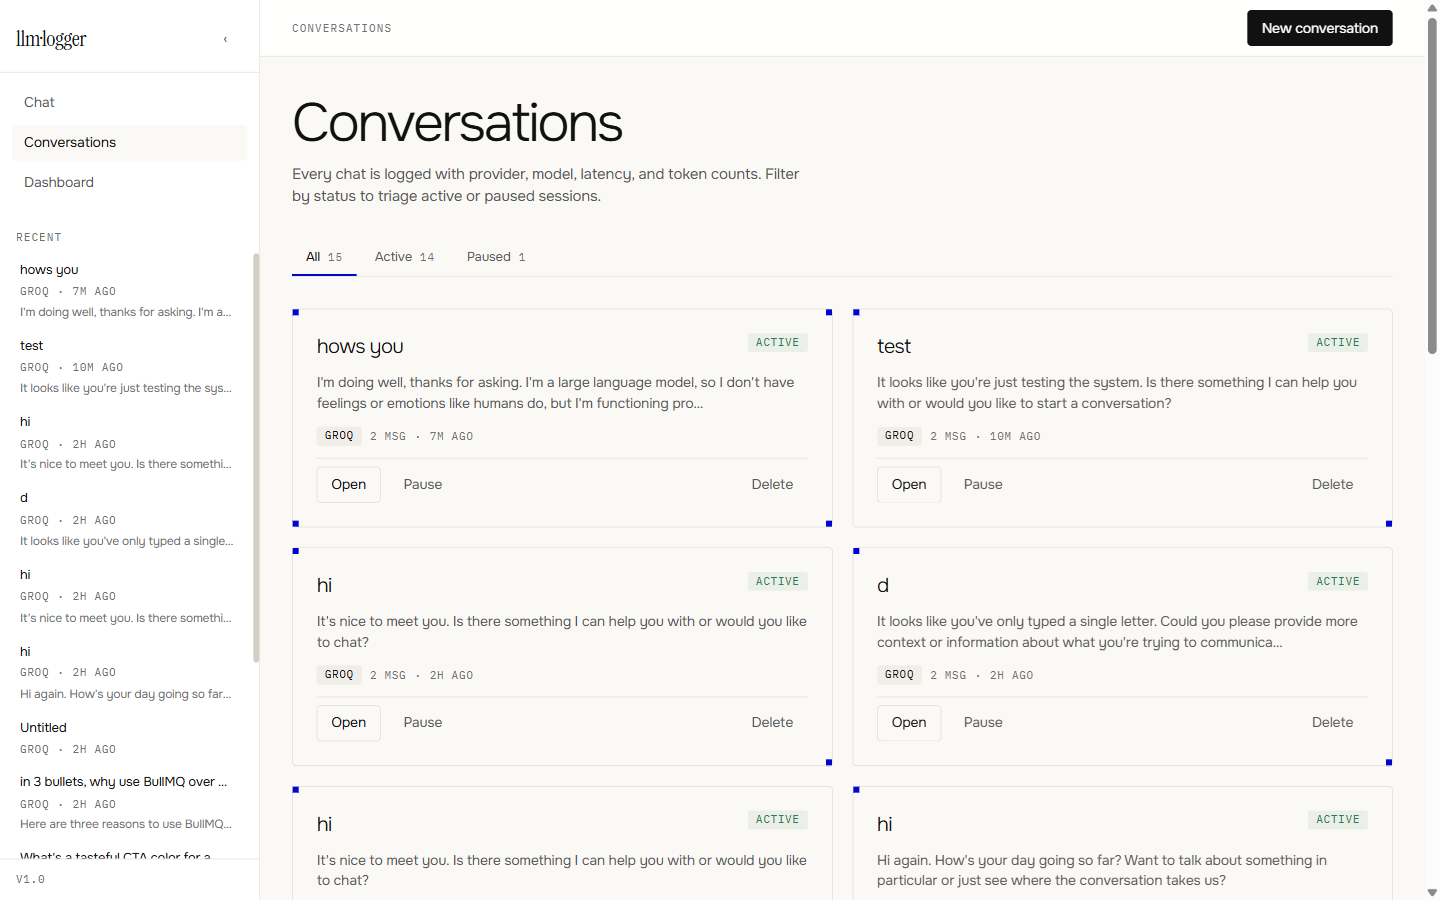
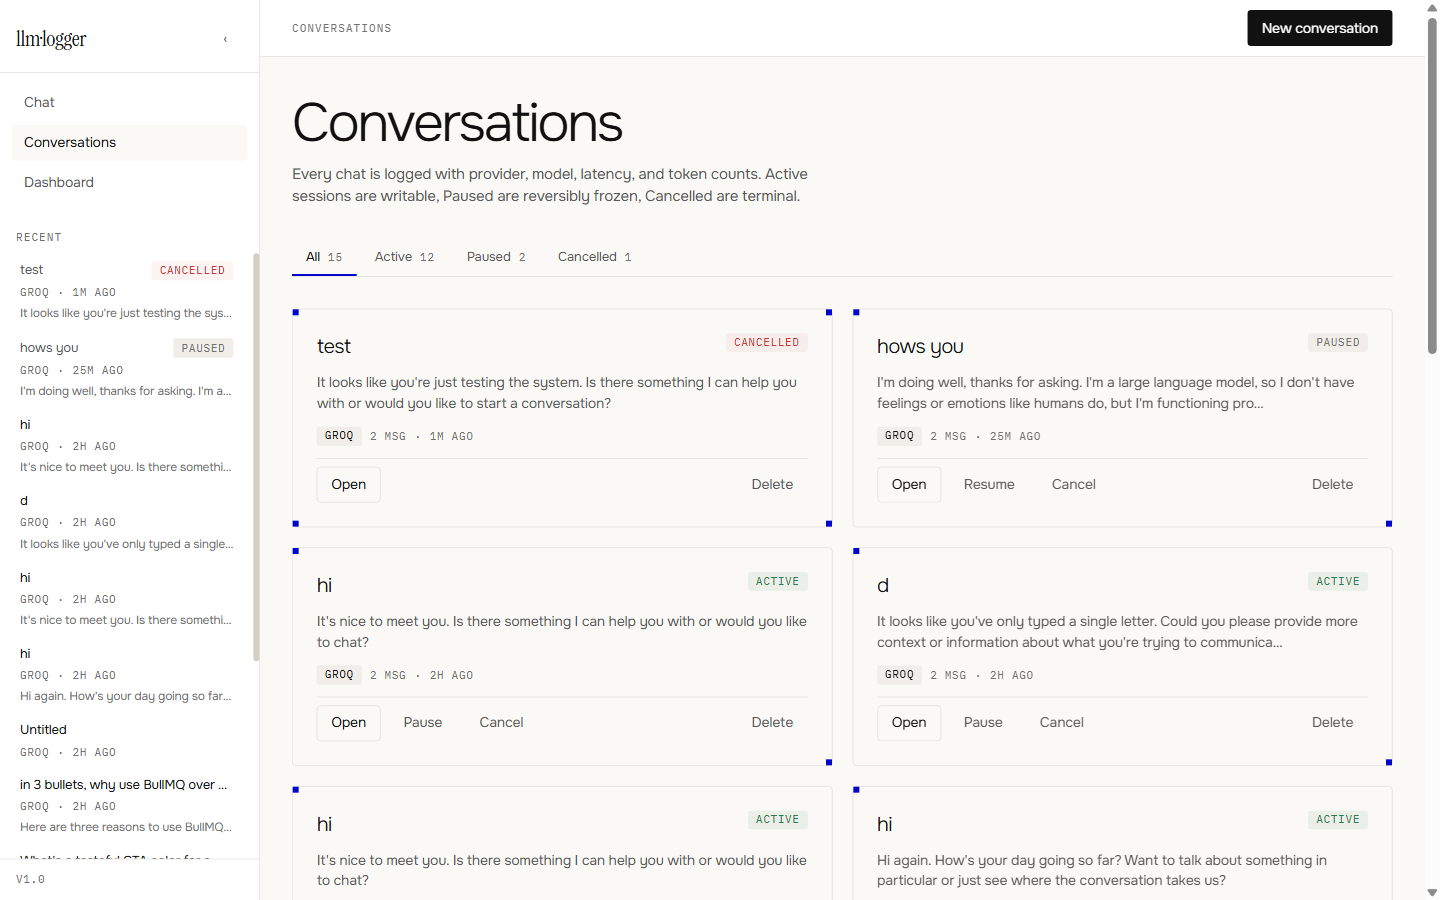
Add terminal CANCELLED status with full UX and server enforcement
Pause was already reversible. Cancelled is the new terminal state: once
set, the conversation is read-only at the database level and cannot be
revived.

UI
- ConversationCard: Cancel button on Active/Paused cards behind a
  window.confirm prompt. Once Cancelled, only Open and Delete remain.
- /conversations filter tabs grow a Cancelled tab with a live count.
- Sidebar Recent shows a red-toned Cancelled chip; muted title style.
- Chat page banner for Cancelled has no Resume button. Copy reads
  read-only and the only forward action is New conversation.
- ChatInput is disabled with a placeholder that explains the state.

Server
- POST /api/chat returns 409 if status is PAUSED or CANCELLED.
- PATCH /api/conversations/[id] returns 409 for any edit on a Cancelled
  conversation (including a status flip back to Active). Only DELETE
  remains valid.

README documents the three-state model, the 409 enforcement, and adds
a fresh Cancelled banner screenshot.

diff --git a/frontend/src/app/chat/page.tsx b/frontend/src/app/chat/page.tsx
@@ -86,6 +86,8 @@ function ChatPageInner() {
   };
 
   const isPaused = conversation?.status === 'PAUSED';
+  const isCancelled = conversation?.status === 'CANCELLED';
+  const isReadOnly = isPaused || isCancelled;
   const showBreadcrumb = !!conversation;
 
   return (
@@ -120,6 +122,7 @@ function ChatPageInner() {
             <span className="badge badge-provider">{conversation.model}</span>
           )}
           {isPaused && <span className="badge badge-paused">Paused</span>}
+          {isCancelled && <span className="badge badge-cancelled">Cancelled</span>}
         </div>
       )}
 
@@ -147,6 +150,31 @@ function ChatPageInner() {
         </div>
       )}
 
+      {isCancelled && (
+        <div className="max-w-container mx-auto w-full px-4 sm:px-8 pt-3">
+          <div
+            className="surface-card flex flex-wrap items-center gap-3 p-4"
+            style={{ background: 'var(--color-surface-cream)' }}
+          >
+            <div className="flex-1 min-w-0">
+              <div className="section-label" style={{ display: 'inline-flex' }}>
+                Cancelled
+              </div>
+              <p className="mt-2 text-[14px] text-[color:var(--color-headline-black)]">
+                This conversation has been cancelled. It is read-only and cannot be reopened. Start
+                a new conversation to keep chatting.
+              </p>
+            </div>
+            <button type="button" className="btn btn-primary" onClick={startNewConversation}>
+              New conversation
+            </button>
+            <Link href="/conversations" className="btn btn-ghost">
+              All conversations
+            </Link>
+          </div>
+        </div>
+      )}
+
       <ChatWindow
         messages={messages}
         streamingText={streamingText}
@@ -157,8 +185,14 @@ function ChatPageInner() {
         onSend={handleSend}
         onCancel={cancel}
         isStreaming={isStreaming}
-        disabled={isPaused}
-        placeholder={isPaused ? 'Resume this conversation to send a message…' : undefined}
+        disabled={isReadOnly}
+        placeholder={
+          isCancelled
+            ? 'This conversation has been cancelled and is read-only.'
+            : isPaused
+            ? 'Resume this conversation to send a message…'
+            : undefined
+        }
       />
     </div>
   );

diff --git a/frontend/src/components/conversations/ConversationCard.tsx b/frontend/src/components/conversations/ConversationCard.tsx
@@ -15,7 +15,9 @@ interface Props {
 function StatusBadge({ status }: { status: ConversationStatus }) {
   if (status === 'ACTIVE')
     return <span className="badge badge-active">Active</span>;
-  return <span className="badge badge-paused">Paused</span>;
+  if (status === 'PAUSED')
+    return <span className="badge badge-paused">Paused</span>;
+  return <span className="badge badge-cancelled">Cancelled</span>;
 }
 
 export function ConversationCard({ conversation, onSetStatus, onDelete, featured }: Props) {
@@ -49,7 +51,7 @@ export function ConversationCard({ conversation, onSetStatus, onDelete, featured
         <Link href={`/chat?id=${conversation.id}`} className="btn btn-outline">
           Open
         </Link>
-        {conversation.status === 'ACTIVE' ? (
+        {conversation.status === 'ACTIVE' && (
           <button
             type="button"
             className="btn btn-ghost"
@@ -57,13 +59,32 @@ export function ConversationCard({ conversation, onSetStatus, onDelete, featured
           >
             Pause
           </button>
-        ) : (
+        )}
+        {conversation.status === 'PAUSED' && (
           <button
             type="button"
             className="btn btn-ghost"
             onClick={() => onSetStatus(conversation.id, 'ACTIVE')}
           >
             Resume
+          </button>
+        )}
+        {conversation.status !== 'CANCELLED' && (
+          <button
+            type="button"
+            className="btn btn-ghost"
+            onClick={() => {
+              if (
+                typeof window === 'undefined' ||
+                window.confirm(
+                  'Cancel this conversation? Once cancelled it cannot be reopened. The conversation will remain readable. To remove it entirely, use Delete.'
+                )
+              ) {
+                onSetStatus(conversation.id, 'CANCELLED');
+              }
+            }}
+          >
+            Cancel
           </button>
         )}
         <button

diff --git a/frontend/src/app/api/conversations/[id]/route.ts b/frontend/src/app/api/conversations/[id]/route.ts
@@ -38,7 +38,11 @@ export async function GET(_req: NextRequest, { params }: Ctx) {
 }
 
 export async function PATCH(req: NextRequest, { params }: Ctx) {
-  let body: { status?: 'ACTIVE' | 'PAUSED'; title?: string; provider?: string };
+  let body: {
+    status?: 'ACTIVE' | 'PAUSED' | 'CANCELLED';
+    title?: string;
+    provider?: string;
+  };
   try {
     body = await req.json();
   } catch {
@@ -47,6 +51,14 @@ export async function PATCH(req: NextRequest, { params }: Ctx) {
 
   const existing = await prisma.conversation.findUnique({ where: { id: params.id } });
   if (!existing) return Response.json({ error: 'Not found' }, { status: 404 });
+
+  // CANCELLED is terminal. The only edit allowed once cancelled is DELETE.
+  if (existing.status === 'CANCELLED') {
+    return Response.json(
+      { error: 'Conversation is cancelled and cannot be modified' },
+      { status: 409 }
+    );
+  }
 
   const updated = await prisma.conversation.update({
     where: { id: params.id },

diff --git a/frontend/src/components/layout/Sidebar.tsx b/frontend/src/components/layout/Sidebar.tsx
@@ -170,6 +170,8 @@ export function Sidebar() {
               )}
               {conversations.map((c) => {
                 const isPaused = c.status === 'PAUSED';
+                const isCancelled = c.status === 'CANCELLED';
+                const isMuted = isPaused || isCancelled;
                 const isActive = pathname === '/chat' && c.id === activeId;
                 return (
                   <Link
@@ -184,7 +186,7 @@ export function Sidebar() {
                       <div
                         className={cn(
                           'text-[13px] leading-snug truncate flex-1 min-w-0',
-                          isPaused
+                          isMuted
                             ? 'text-[color:var(--color-mid-gray)]'
                             : 'text-[color:var(--color-headline-black)]'
                         )}
@@ -193,6 +195,9 @@ export function Sidebar() {
                       </div>
                       {isPaused && (
                         <span className="badge badge-paused shrink-0">Paused</span>
+                      )}
+                      {isCancelled && (
+                        <span className="badge badge-cancelled shrink-0">Cancelled</span>
                       )}
                     </div>
                     <div className="mt-1 flex items-center gap-2">

diff --git a/frontend/src/app/api/chat/route.ts b/frontend/src/app/api/chat/route.ts
@@ -45,6 +45,12 @@ export async function POST(req: NextRequest) {
       { status: 409 }
     );
   }
+  if (conversation.status === 'CANCELLED') {
+    return Response.json(
+      { error: 'Conversation is cancelled and cannot accept new messages' },
+      { status: 409 }
+    );
+  }
 
   const providerId = body.provider ?? conversation.provider;
   let provider;

diff --git a/frontend/src/app/conversations/page.tsx b/frontend/src/app/conversations/page.tsx
@@ -11,6 +11,7 @@ const FILTERS: Array<{ key: 'ALL' | ConversationStatus; label: string }> = [
   { key: 'ALL', label: 'All' },
   { key: 'ACTIVE', label: 'Active' },
   { key: 'PAUSED', label: 'Paused' },
+  { key: 'CANCELLED', label: 'Cancelled' },
 ];
 
 export default function ConversationsPage() {
@@ -28,6 +29,7 @@ export default function ConversationsPage() {
       ALL: conversations.length,
       ACTIVE: conversations.filter((c) => c.status === 'ACTIVE').length,
       PAUSED: conversations.filter((c) => c.status === 'PAUSED').length,
+      CANCELLED: conversations.filter((c) => c.status === 'CANCELLED').length,
     };
   }, [conversations]);
 
@@ -58,8 +60,8 @@ export default function ConversationsPage() {
           Conversations
         </h1>
         <p className="mt-3 text-[15px] text-muted max-w-[520px]">
-          Every chat is logged with provider, model, latency, and token counts. Filter by status to
-          triage active or paused sessions.
+          Every chat is logged with provider, model, latency, and token counts. Active sessions are
+          writable, Paused are reversibly frozen, Cancelled are terminal.
         </p>
 
         <div className="mt-8 flex items-center gap-1 border-b border-sand overflow-x-auto scrollbar-thin">

diff --git a/frontend/src/app/globals.css b/frontend/src/app/globals.css
@@ -257,6 +257,10 @@ a {
     background: var(--color-surface-cream);
     color: var(--color-icon-gray);
   }
+  .badge-cancelled {
+    background: rgba(201, 54, 54, 0.06);
+    color: var(--color-error);
+  }
   .badge-provider {
     background: var(--color-surface-cream);
     color: var(--color-headline-black);

diff --git a/frontend/src/types/index.ts b/frontend/src/types/index.ts
@@ -1,6 +1,6 @@
 export type ProviderName = 'gemini' | 'openai' | 'anthropic';
 
-export type ConversationStatus = 'ACTIVE' | 'PAUSED';
+export type ConversationStatus = 'ACTIVE' | 'PAUSED' | 'CANCELLED';
 export type Role = 'USER' | 'ASSISTANT' | 'SYSTEM';
 export type RequestStatus = 'SUCCESS' | 'ERROR' | 'TIMEOUT' | 'CANCELLED';
 

diff --git a/README.md b/README.md
@@ -46,6 +46,9 @@ It is intentionally small enough to fit in one repo, but the seams are real: the
 ### Paused conversation (Resume banner, input disabled)
 ![Paused banner](docs/screenshots/paused-banner.png)
 
+### Cancelled conversation (terminal, no Resume, read-only)
+![Cancelled banner](docs/screenshots/cancelled-banner.png)
+
 ### Metrics dashboard
 ![Metrics dashboard](docs/screenshots/dashboard.png)
 
@@ -101,7 +104,7 @@ See [ARCHITECTURE.md](ARCHITECTURE.md) for the full ingestion flow, failure hand
 Streaming chat. Provider selector (Groq / Gemini / OpenAI / Anthropic) and model are switchable per conversation. Live status: streaming dots while waiting for the first token, animated cursor for active deltas, Cancel button that aborts the in-flight call (and records `status=CANCELLED` on the log). Sidebar Recent list updates instantly when anything changes (no polling lag).
 
 ### `/conversations`
-A grid view of every conversation. Tabs at the top filter by status (All / Active / Paused) with live counts. Each card shows the title, last message preview, provider chip, message count, and time since update. Per-card actions: Open, Pause (or Resume if already paused), Delete. Deletes cascade through messages and inference logs and propagate to the sidebar Recent in the same render tick.
+A grid view of every conversation. Tabs at the top filter by status (All / Active / Paused / Cancelled) with live counts. Each card shows the title, last message preview, provider chip, message count, and time since update. Per-card actions adapt to status: Active shows Open, Pause, Cancel, Delete. Paused shows Open, Resume, Cancel, Delete. Cancelled shows only Open and Delete. Deletes cascade through messages and inference logs and propagate to the sidebar Recent in the same render tick.
 
 ### `/dashboard`
 Inference metrics across all providers. Window selector for the last 1h / 6h / 24h / 7d. Four KPI tiles (total requests, average latency, error rate, total tokens), three time-series charts (latency over time, throughput, errors), and a per-provider breakdown table with average latency, error count, and error rate.
@@ -121,14 +124,20 @@ Groq is the default and the recommended starter because the free tier has genero
 
 ## Conversation lifecycle
 
-A conversation has two states:
+Three states, designed to map cleanly to user intent.
 
-- **Active.** Default. Fully writable.
-- **Paused.** Read-only. The chat page shows a Paused breadcrumb chip, a banner with a Resume button and an "All conversations" link, and the input textarea is disabled with a placeholder that explains why.
+- **Active.** Default. Fully writable. Tokens flow, the dashboard logs each call.
+- **Paused.** Reversibly frozen. The chat page shows a Paused breadcrumb chip, a banner with a Resume button and an "All conversations" link, and the input textarea is disabled with a placeholder that explains why. Click Resume on the banner (or on the conversation card) to flip back to Active.
+- **Cancelled.** Terminal. No way back. Once cancelled, the chat is read-only, the only banner action is "Start a new conversation", and the input placeholder reads "This conversation has been cancelled and is read-only." There is no Resume button anywhere. The conversation card on the dashboard collapses to two actions: Open and Delete. Use Delete if you want the data gone too; Cancelled keeps the history for audit but stops all writes.
 
-Pause and Resume are explicit user actions on the dashboard or on the chat page. There is no auto-archival. The earlier draft of this app had a third "Completed" status but no flow ever populated it, so it was removed in favor of a two-state model that maps cleanly to user intent. The schema migration (`prisma/migrate-statuses.js`) renames `CANCELLED` to `PAUSED` in place and drops `COMPLETED`, so upgrading an existing database is a no-op restart.
+Pause, Resume, and Cancel are explicit user actions. There is no auto-archival. Because Cancel is irreversible, the conversation card's Cancel button triggers a confirmation prompt before firing.
 
-Mutations propagate through a small `conversations:changed` `CustomEvent` so the sidebar, the chat view, and the conversations grid all stay in sync instantly. There is no polling round-trip.
+The server enforces all three transitions, not just the UI:
+
+- `POST /api/chat` returns `409` if the target conversation is Paused or Cancelled, so a stale client cannot smuggle a message through.
+- `PATCH /api/conversations/[id]` returns `409` for any edit attempt on a Cancelled conversation, including a status change back to Active. Cancelled is genuinely terminal at the database level, not just visually.
+
+Mutations propagate through a `conversations:changed` `CustomEvent` so the sidebar, the chat view, and the conversations grid all stay in sync instantly. There is no polling round-trip.
 
 ## SDK logger and PII redaction
 
@@ -226,7 +235,7 @@ model InferenceLog {
   @@index([createdAt])
 }
 
-enum ConversationStatus { ACTIVE PAUSED }
+enum ConversationStatus { ACTIVE PAUSED CANCELLED }
 enum Role               { USER ASSISTANT SYSTEM }
 enum RequestStatus      { SUCCESS ERROR TIMEOUT CANCELLED }
 ```
@@ -320,7 +329,9 @@ The `.env` file is gitignored. Only `.env.example` is committed, and it has blan
 
 **`docker compose up` hangs on "Generating static pages".** First build is slow; Next runs prerender on every page. Subsequent builds are cached. If a real failure surfaces, the most common cause on Next 14 is a server component reading `useSearchParams` outside a Suspense boundary. The repo wraps all such reads.
 
-**`/api/chat` returns 409 with "Conversation is paused".** Expected. Pause is enforced on the server too, not just in the UI. Open the conversation and click Resume.
+**`/api/chat` returns 409 with "Conversation is paused" or "Conversation is cancelled".** Expected. Both states are enforced on the server, not just in the UI. Paused is reversible (open and click Resume). Cancelled is terminal; start a new conversation.
+
+**`PATCH /api/conversations/[id]` returns 409 with "Conversation is cancelled and cannot be modified".** Also expected. Cancelled rejects every edit, including un-cancel attempts. The only operation allowed is `DELETE`.
 
 **Dashboard shows 100% errors for one provider.** Likely a quota or API-key issue with that specific provider. Check the InferenceLog row's `errorMessage` (the SDK records the real response), or just rotate the key.
 